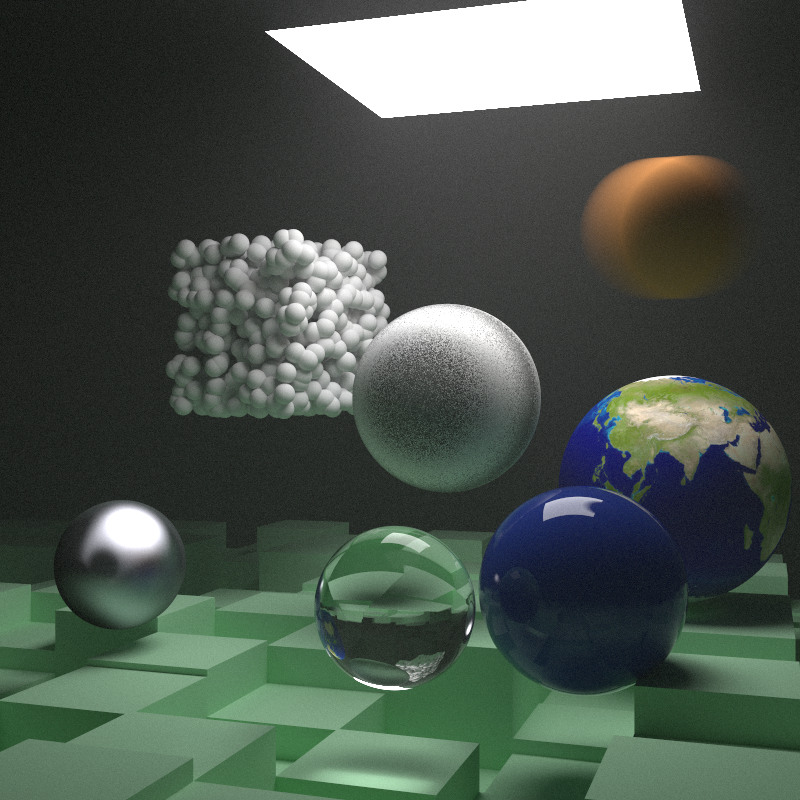
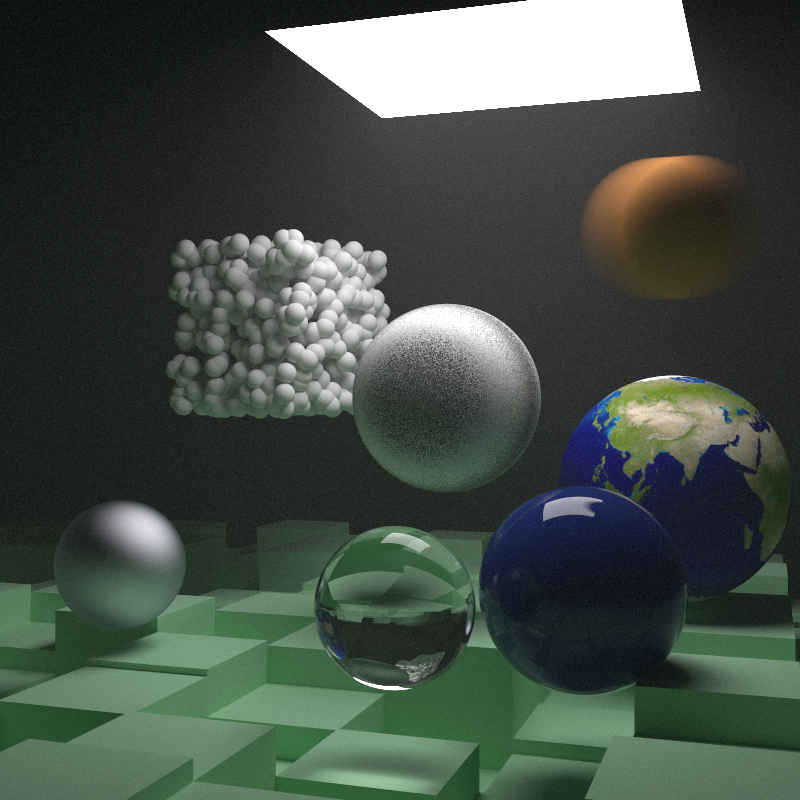
Add baisc implementation of Russian Roulette

diff --git a/src/renderer.h b/src/renderer.h
@@ -19,7 +19,7 @@ struct TraceSpec {
     int width;
     int height;
     int samples_per_pixel;
-    int max_depth;
+    XFloat rr; //RussianRoulette
     XFloat inv_width;
     XFloat inv_height;
     XFloat inv_samples_per_pixel;
@@ -37,10 +37,10 @@ struct RaySpan {
 
 class Renderer : private Uncopyable {
 public:
-    Renderer(int samples_per_pixel, int max_depth, Color background_color = Color::zero) : background_color_(background_color) {
+    Renderer(int samples_per_pixel, XFloat rr = 0.8, Color background_color = Color::zero) : background_color_(background_color) {
         spec_.samples_per_pixel = samples_per_pixel;
         spec_.inv_samples_per_pixel = 1.0 / samples_per_pixel;
-        spec_.max_depth = max_depth;
+        spec_.rr = math::Clamp(rr, 0.0, 0.999);
     }
 
     TraceSpec& spec() { return spec_; }
@@ -50,7 +50,7 @@ public:
 
 private:
     void CastRay(int begin, int end);
-    Color Trace(const Ray& r, int depth);
+    Color Trace(const Ray& r);
 
     Color background_color_;
     TraceSpec spec_;
@@ -63,10 +63,10 @@ void Renderer::BuildBVH(const HittableList& world) {
     root_ = BvhNode(world);
 }
 
-Color Renderer::Trace(const Ray& r, int depth) {
+Color Renderer::Trace(const Ray& r) {
     HitResult rec;
 
-    if (depth <= 0)
+    if (math::random::Random<XFloat>() > spec_.rr)
         return Color(0, 0, 0);
 
     if (!root_.Hit(r, 0.001, math::kInfinite, rec)) {
@@ -80,7 +80,7 @@ Color Renderer::Trace(const Ray& r, int depth) {
         return emitted;
 
     if (srec.is_specular) {
-        return srec.attenuation * Trace(srec.specular_ray, depth-1);
+        return srec.attenuation * Trace(srec.specular_ray);
     }
 
     if (lights_) {
@@ -90,13 +90,13 @@ Color Renderer::Trace(const Ray& r, int depth) {
         auto pdf_val = p.Value(scattered.direction);
 
         return emitted + 
-            srec.attenuation * rec.mat_ptr->ScatteringPDF(r, rec, scattered) * Trace(scattered, depth-1) / pdf_val;
+            srec.attenuation * rec.mat_ptr->ScatteringPDF(r, rec, scattered) * Trace(scattered) / (pdf_val * spec_.rr);
     } else {
         Ray scattered(rec.p, srec.pdf_ptr->Generate(), r.time);
         auto pdf_val = srec.pdf_ptr->Value(scattered.direction);
 
         return emitted + 
-            srec.attenuation * rec.mat_ptr->ScatteringPDF(r, rec, scattered) * Trace(scattered, depth-1) / pdf_val;
+            srec.attenuation * rec.mat_ptr->ScatteringPDF(r, rec, scattered) * Trace(scattered) / (pdf_val * spec_.rr);
     }
 }
 
@@ -111,7 +111,7 @@ void Renderer::CastRay(int begin, int end) {
             auto v = (j + math::random::Random<XFloat>()) * spec_.inv_height;
             Ray r = spec_.camera->CastRay(u, v);
             
-            Color color = Trace(r, spec_.max_depth);
+            Color color = Trace(r);
             CanoicalColor(color);
 
             pixel_color += color;

diff --git a/src/example/final.cpp b/src/example/final.cpp
@@ -79,7 +79,7 @@ HittableList gen_scene() {
 
 int main() {
     // Render
-    Renderer r(2000, 50, Color::zero);
+    Renderer r(10000, 0.9);
     
     // World
     auto world = gen_scene();
@@ -106,7 +106,7 @@ int main() {
 
     auto lights = std::make_shared<HittableList>();
     lights->Add(std::make_shared<AARect<math::Axis::kY>>(123, 423, 147, 412, 554, std::shared_ptr<Material>()));
-    r.Render(camera, image, lights, 10, 128);
+    r.Render(camera, image, nullptr, 10, 128);
 
     write_png_image("output.png", image.width(), image.height(), 3, (const void*)image.data().data(), 0);
 }

diff --git a/src/util.h b/src/util.h
@@ -58,9 +58,9 @@ inline void CanoicalColor(Color& color) {
     if (color.g != color.g) color.g = 0.0;
     if (color.b != color.b) color.b = 0.0;
     
-    color.r = math::Clamp(color.r, 0.0, 1.0);
-    color.g = math::Clamp(color.g, 0.0, 1.0);
-    color.b = math::Clamp(color.b, 0.0, 1.0);
+    // color.r = math::Clamp(color.r, 0.0, 1.0);
+    // color.g = math::Clamp(color.g, 0.0, 1.0);
+    // color.b = math::Clamp(color.b, 0.0, 1.0);
 }
 
 math::Vec3<uint8_t> SdrColor(Color color, XFloat inv_samples_per_pixel) {

diff --git a/src/pdf.h b/src/pdf.h
@@ -84,7 +84,7 @@ class MixturePDF : public PDF {
         }
 
         virtual double Value(const Vec3f& direction) const override {
-            return 0.5 * p[0]->Value(direction) + 0.5 *p[1]->Value(direction);
+            return 0.5 * p[0]->Value(direction) + 0.5 * p[1]->Value(direction);
         }
 
         virtual Vec3f Generate() const override {

diff --git a/src/example/motion_blur.cpp b/src/example/motion_blur.cpp
@@ -61,7 +61,7 @@ HittableList gen_scene() {
 
 int main() {
     // Render
-    Renderer r(100, 50, Color(0.70, 0.80, 1.00));
+    Renderer r(100, 0.8, Color(0.70, 0.80, 1.00));
     
     // World
     auto world = gen_scene();

diff --git a/src/example/checker.cpp b/src/example/checker.cpp
@@ -60,7 +60,7 @@ HittableList gen_scene() {
 
 int main() {
     // Render
-    Renderer r(10, 50, Color(0.70, 0.80, 1.00));
+    Renderer r(10, 0.8, Color(0.70, 0.80, 1.00));
     
     // World
     auto world = gen_scene();

diff --git a/src/example/image_texture.cpp b/src/example/image_texture.cpp
@@ -25,7 +25,7 @@ HittableList gen_scene() {
 
 int main() {
     // Render
-    Renderer r(10, 50, Color(0.70, 0.80, 1.00));
+    Renderer r(10, 0.8, Color(0.70, 0.80, 1.00));
     
     // World
     auto world = gen_scene();

diff --git a/src/example/perlin.cpp b/src/example/perlin.cpp
@@ -24,7 +24,7 @@ HittableList gen_scene() {
 
 int main() {
     // Render
-    Renderer r(10, 50, Color(0.70, 0.80, 1.00));
+    Renderer r(10, 0.8, Color(0.70, 0.80, 1.00));
     
     // World
     auto world = gen_scene();

diff --git a/src/example/random_sphere.cpp b/src/example/random_sphere.cpp
@@ -59,7 +59,7 @@ HittableList gen_scene() {
 
 int main() {
     // Render
-    Renderer r(10, 50, Color(0.70, 0.80, 1.00));
+    Renderer r(10, 0.8, Color(0.70, 0.80, 1.00));
     
     // World
     auto world = gen_scene();

diff --git a/src/example/cornell.cpp b/src/example/cornell.cpp
@@ -41,7 +41,7 @@ HittableList gen_scene() {
 
 int main() {
     // Render
-    Renderer r(1000, 50);
+    Renderer r(1000);
     
     // World
     auto world = gen_scene();

diff --git a/src/example/cornell_aluminum.cpp b/src/example/cornell_aluminum.cpp
@@ -42,7 +42,7 @@ HittableList gen_scene() {
 
 int main() {
     // Render
-    Renderer r(1000, 50);
+    Renderer r(1000);
     
     // World
     auto world = gen_scene();

diff --git a/src/example/cornell_glass.cpp b/src/example/cornell_glass.cpp
@@ -43,7 +43,7 @@ HittableList gen_scene() {
 
 int main() {
     // Render
-    Renderer r(1000, 50);
+    Renderer r(1000);
     
     // World
     auto world = gen_scene();
